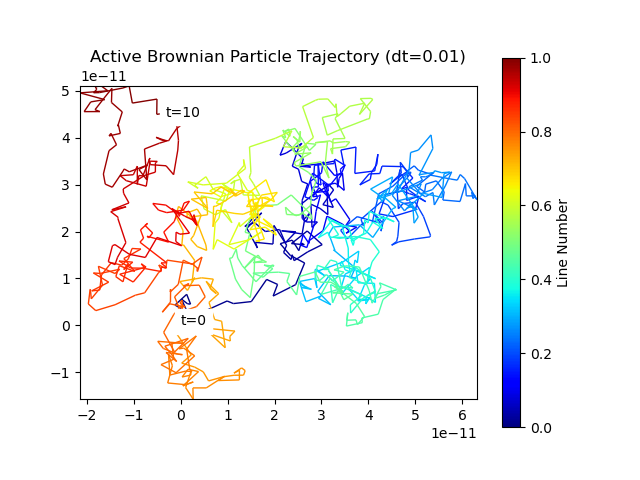
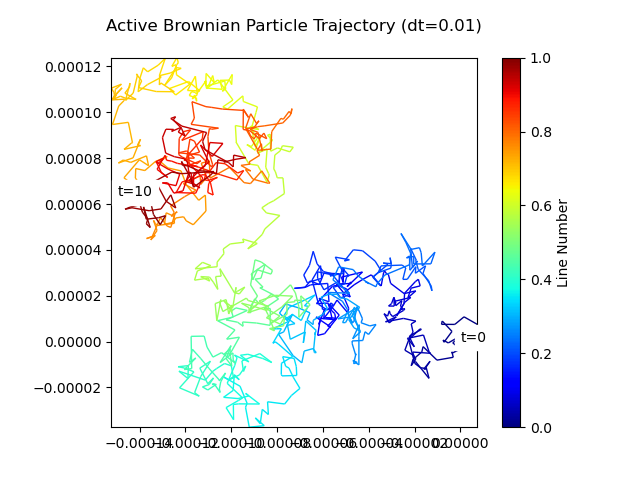
Updates

diff --git a/code/src/swimmer.py b/code/src/swimmer.py
@@ -1,18 +1,32 @@
-from operator import le
-from random import gauss
-from autograd.core import deprecated_defgrad
 import numpy as np
 from numpy.linalg import norm
 from .mathutils import level_curve_intersection
+from numpy.random import normal, uniform
 
 # TODO 
 """
 - Right now initialization of SimpleSwimmer solves without accounting for 
   other swimmers that will be in the handler. Think about proper way to handle 
   this.
-- Work out on paper what the reflections for a box then compare with sim
-- Boundaries currently have to be monotonically increasing from the interior. 
+- MSD 
+- simulate simple scenarios mimicking paper 
+    - input 1 micron diameter 10-3 viscosity water, T = 310 K, calculate D_R 
+    - set D_t = 0 
+    - initial conditions: x_0 = 0, y_0 = 0, phi_0 = 0, 
+    - v = 0 - brownian (turn translational back on)
+        = 10 micron/s
+    - Pe = v/\sqrt{D_T D_R}
+    - suggested = Pe = v/(RD_R)
+    - Pe = t_diffusion / t_advection
+- at end of simulation, x, y, t columns of an array. MSD: mean squared 
+  displacement. assume delta t is one start with t = 0, 
 """
+def uniform_angle():
+    """
+    Draws samples from a random distribution [0, 2 * pi]
+    """
+    return uniform(low=0.0, high=2 * np.pi)
+
 
 class SimpleSwimmer:
     def __init__(self,
@@ -24,7 +38,10 @@ class SimpleSwimmer:
                    v_0 = 0,
                    phi_0 = 0,
                    omega = 0,
-                   brown=True):
+                   trans_diff=True,
+                   rot_diff=True, 
+                   trans_dist=normal,
+                   rot_dist=uniform_angle):
         """
         Simple microswimmer object from Volpe, et al.
         """
@@ -57,7 +74,10 @@ class SimpleSwimmer:
         self.d_r = (world.k_B * world.temp) / \
                     (8 * world.viscosity * (self.r ** 3))
 
-        self.brown = int(brown)
+        self.trans_diff = int(trans_diff)
+        self.rot_diff = int(rot_diff)
+        self.trans_dist = trans_dist 
+        self.rot_dist = rot_dist
 
         # Solve for next time step upon initialization to determine next_x, 
         # next_y
@@ -89,37 +109,39 @@ class SimpleSwimmer:
         Solve for next timestep of differential equation.
         """
         dt = self.world.dt
-        gauss_norm = lambda: gauss(0, 1)
-        wphi_i = gauss_norm()
-        wx_i = gauss_norm()
-        wy_i = gauss_norm()
+        wphi_i = self.rot_dist()
+        wx_i = self.trans_dist()
+        wy_i = self.trans_dist()
+
         # Solve finite difference equations
-        phi_i = self.phi + self.omega * dt + self.brown * np.sqrt(2 * self.d_r * dt) * wphi_i
+        phi_i = self.phi + self.omega * dt + self.rot_diff * np.sqrt(2 * self.d_r * dt) * wphi_i
         x_i = self.x + self.v * np.cos(self.phi) * dt \
-              + self.brown * np.sqrt(2 * self.d_t * dt) * wx_i
+              + self.trans_diff * np.sqrt(2 * self.d_t * dt) * wx_i
         y_i = self.y + self.v * np.sin(self.phi) * dt \
-              + self.brown * np.sqrt(2 * self.d_t * dt) * wy_i
+              + self.trans_diff * np.sqrt(2 * self.d_t * dt) * wy_i
         
         self.phi = phi_i
         self.next_x = x_i
         self.next_y = y_i
         tried_r = np.array((self.next_x, self.next_y))
-        print(tried_r)
         current_r = np.array((self.x, self.y))
         if self.world.bdy is not None and \
-           self.world.bdy(tried_r) > self.world.bdy_pot and \
-           self.world.bdy(current_r) < self.world.bdy_pot:
-            bdy_collision_position = level_curve_intersection((self.x, self.y),
-                                                            (self.next_x, 
-                                                                self.next_y),
-                                                            self.world.bdy,
-                                                            self.world.bdy_pot)
+           self.world.is_outside_bdy(tried_r) and \
+           self.world.is_inside_bdy(current_r):
+            while self.world.bdy(tried_r) > self.world.bdy_pot:
+                # TODO maybe abstract this 
+                bdy_collision_position = level_curve_intersection((self.x, self.y),
+                                                                (self.next_x, 
+                                                                    self.next_y),
+                                                                self.world.bdy,
+                                                                self.world.bdy_pot)
 
-            normal = self.world.normal_vec(bdy_collision_position)
-            next_r = np.subtract(tried_r, 
-                                 2 * (np.dot(np.subtract(tried_r, 
-                                                         bdy_collision_position),
-                                             normal))
-                                 * normal)
-            self.next_x, self.next_y = next_r
+                normal = self.world.normal_vec(bdy_collision_position)
+                tried_r = np.subtract(tried_r, 
+                                    2 * (np.dot(np.subtract(tried_r, 
+                                                            bdy_collision_position),
+                                                normal))
+                                    * normal)
+                current_r = bdy_collision_position 
+            self.next_x, self.next_y = tried_r
 

diff --git a/code/src/plot.py b/code/src/plot.py
@@ -48,7 +48,15 @@ def make_segments(x, y):
     segments = np.concatenate([points[:-1], points[1:]], axis=1)
     return segments
 
-def plot_swimmer_trajectory(positions, output_dir, title="Swimmer Trajectory", t_start='0', t_stop='t_stop'):
+def plot_swimmer_trajectory(positions, 
+                            output_dir, 
+                            swimmer, 
+                            world, 
+                            title="Swimmer Trajectory", 
+                            t_start='0', 
+                            t_stop='t_stop', 
+                            xlim=None, 
+                            ylim=None):
     fig, ax = plt.subplots()
     path = mpath.Path(positions)
     verts = path.vertices
@@ -64,4 +72,35 @@ def plot_swimmer_trajectory(positions, output_dir, title="Swimmer Trajectory", t
     axcb = fig.colorbar(lc)
     axcb.set_label('Line Number')
 
+    if xlim is not None: 
+        ax.set_xlim(xlim[0], xlim[1])
+    if ylim is not None: 
+        ax.set_ylim(ylim[0], ylim[1])
+        
     plt.savefig(output_dir)
+    f = open(output_dir + '.txt', 'w')
+
+    # TODO find a way to output boundary 
+
+    bdy_name = world.bdy if world.bdy is not None else 'None'
+    content = f"""WORLD CONDITIONS: 
+temperature\t\t\t\t{world.temp}
+k_B\t\t\t\t\t\t{world.k_B}
+viscosity\t\t\t\t{world.viscosity}
+boundary\t\t\t\t{bdy_name}
+
+SWIMMER PARAMETERS: 
+R\t\t\t\t\t\t{swimmer.r} 
+v\t\t\t\t\t\t{swimmer.v}
+omega\t\t\t\t\t{swimmer.omega}
+trans. diffusion\t\t{bool(swimmer.trans_diff)}
+rot. diffusion\t\t\t{bool(swimmer.rot_diff)}
+trans. diffusion dist.\t{swimmer.trans_dist.__name__}
+rot. diffusion dist.\t{swimmer.rot_dist.__name__}
+
+SIMULATION PARAMETERS: 
+dt\t\t\t\t\t\t{world.dt} 
+duration\t\t\t\t{len(x) * world.dt}
+              """
+    f.write(content)
+    f.close()

diff --git a/code/collision_test.py b/code/collision_test.py
@@ -1,0 +1,46 @@
+import matplotlib.pyplot as plt
+from src.mathutils import level_curve_intersection
+from src.world import World
+import numpy as np
+from src.plot import plot_swimmer_trajectory
+from src.boundaries import rectangular_bdy
+
+
+bdy = rectangular_bdy #lambda x: x[0]
+bdy_pot = 2
+world = World(1, bdy=bdy, bdy_pot=bdy_pot)
+
+x = 1.75 
+y = 1.20
+v_x, v_y = 1, 1
+positions = [(x, y)]
+for i in range(0, 1):
+    next_x = x + v_x 
+    next_y = y + v_y 
+    tried_r = np.array((next_x, next_y))
+    current_r = np.array((x, y))
+    if bdy is not None and \
+        bdy(tried_r) > bdy_pot and \
+        bdy(current_r) < bdy_pot:
+        while bdy(tried_r) > bdy_pot:
+            bdy_collision_position = level_curve_intersection((x, y),
+                                                            (next_x, 
+                                                                next_y),
+                                                            bdy,
+                                                            bdy_pot)
+
+            normal = world.normal_vec(bdy_collision_position)
+            tried_r = np.subtract(tried_r, 
+                                2 * (np.dot(np.subtract(tried_r, 
+                                                        bdy_collision_position),
+                                            normal))
+                                * normal)
+            current_r = bdy_collision_position 
+            positions.append(bdy_collision_position)
+        next_x, next_y = tried_r
+    x = next_x
+    y = next_y
+    positions.append((next_x, next_y))
+
+print(positions)
+plot_swimmer_trajectory(positions, 'plots/collision_test')

diff --git a/code/simple_boundary_test.py b/code/simple_boundary_test.py
@@ -1,3 +1,4 @@
+from matplotlib.pyplot import xlim
 from src.swimmer import SimpleSwimmer
 from src.world import World 
 import numpy as np 
@@ -11,20 +12,30 @@ from src.boundaries import circular_bdy, rectangular_bdy
 # are not placing it outside. 
 
 
-DURATION = 30
-DT = 0.1
+DURATION = 10
+DT = 0.0001
+R = 20e-6
 
-# world = World(0.01, bdy=rectangular_bdy, bdy_pot=1e-6)
-# swimmer = SimpleSwimmer(0, world, x_0=0.9e-6, y_0=0.96e-6, v_0=1e-7, phi_0=np.pi/3, brown=False)
 
-world = World(0.01, bdy=circular)
+world = World(0.01, bdy=circular_bdy, bdy_pot=R)
+swimmer = SimpleSwimmer(0, world, y_0=0.5e-9, phi_0=np.pi / 3, brown=True, v_0=10e-6)
 
+print('computing circular boundary trajectory')
 positions = []
 for i in range(0, int(DURATION / DT)):
     positions.append(swimmer.get_position())
     swimmer.step()
 
-plot_swimmer_trajectory(positions, "plots/rectangular_bdy")
+plot_swimmer_trajectory(positions, "plots/circular_bdy", xlim=(-R, R), ylim=(-R, R))
 
-x, y = np.transpose(positions)
+world = World(0.01, bdy=rectangular_bdy, bdy_pot=R)
+swimmer = SimpleSwimmer(0, world, y_0=0.5e-9, phi_0=np.pi / 3, brown=True, v_0=10e-6)
 
+print('computing rectangular boundary trajectory')
+positions = []
+for i in range(0, int(DURATION / DT)):
+    positions.append(swimmer.get_position())
+    swimmer.step()
+
+plot_swimmer_trajectory(positions, "plots/rectangular_bdy", xlim=(-R - R / 10, 
+                        R + R / 10), ylim=(-R - R / 10, R + R / 10))

diff --git a/code/plot_swimmer_trajectory.py b/code/plot_swimmer_trajectory.py
@@ -1,12 +1,12 @@
 from matplotlib.pyplot import plot
-from src.swimmer import SimpleSwimmer, Swimmer 
+from src.swimmer import SimpleSwimmer
 from src.world import World 
 import numpy as np
 from os.path import join
 from src.plot import plot_swimmer_trajectory
 
 DT = 0.01
-DURATION = 2
+DURATION = 1000
 OUTPUT_DIR = 'plots'
 
 world = World(DT)
@@ -19,7 +19,8 @@ for i in range(0, int(DURATION / DT)):
 
 x, y = np.transpose(positions)
 
-plot_swimmer_trajectory(positions, 
-                        join(OUTPUT_DIR, f"swimmer_trajectory_t={DURATION}"),
-                        title=f"Active Brownian Particle Trajectory (dt={DT})",
+plot_swimmer_trajectory(positions,
+                        join(OUTPUT_DIR, f"swimmer_trajectory_t={DURATION}_v={swimmer.v}"),
+                        swimmer, world,
+                        title=f"Active Brownian Particle Trajectory",
                         t_start='0', t_stop=DURATION)

diff --git a/code/src/world.py b/code/src/world.py
@@ -6,7 +6,7 @@ from math import isclose
 
 
 class World:
-    def __init__(self, dt, bdy=None, bdy_pot=1, temp=300, k_B=k, viscosity=1):
+    def __init__(self, dt, bdy=None, bdy_pot=1, temp=310, k_B=k, viscosity=1e-3):
         """`
         World object: this is where one defines constants, 
         timestep sizes, etc.
@@ -38,6 +38,12 @@ class World:
 
         norm = linalg.norm(sol)
         return -1 * np.divide(sol, norm)
+    
+    def is_outside_bdy(self, r):
+        return self.bdy(r) > self.bdy_pot
+        
+    def is_inside_bdy(self, r):
+        return self.bdy(r) < self.bdy_pot
 
 
 
